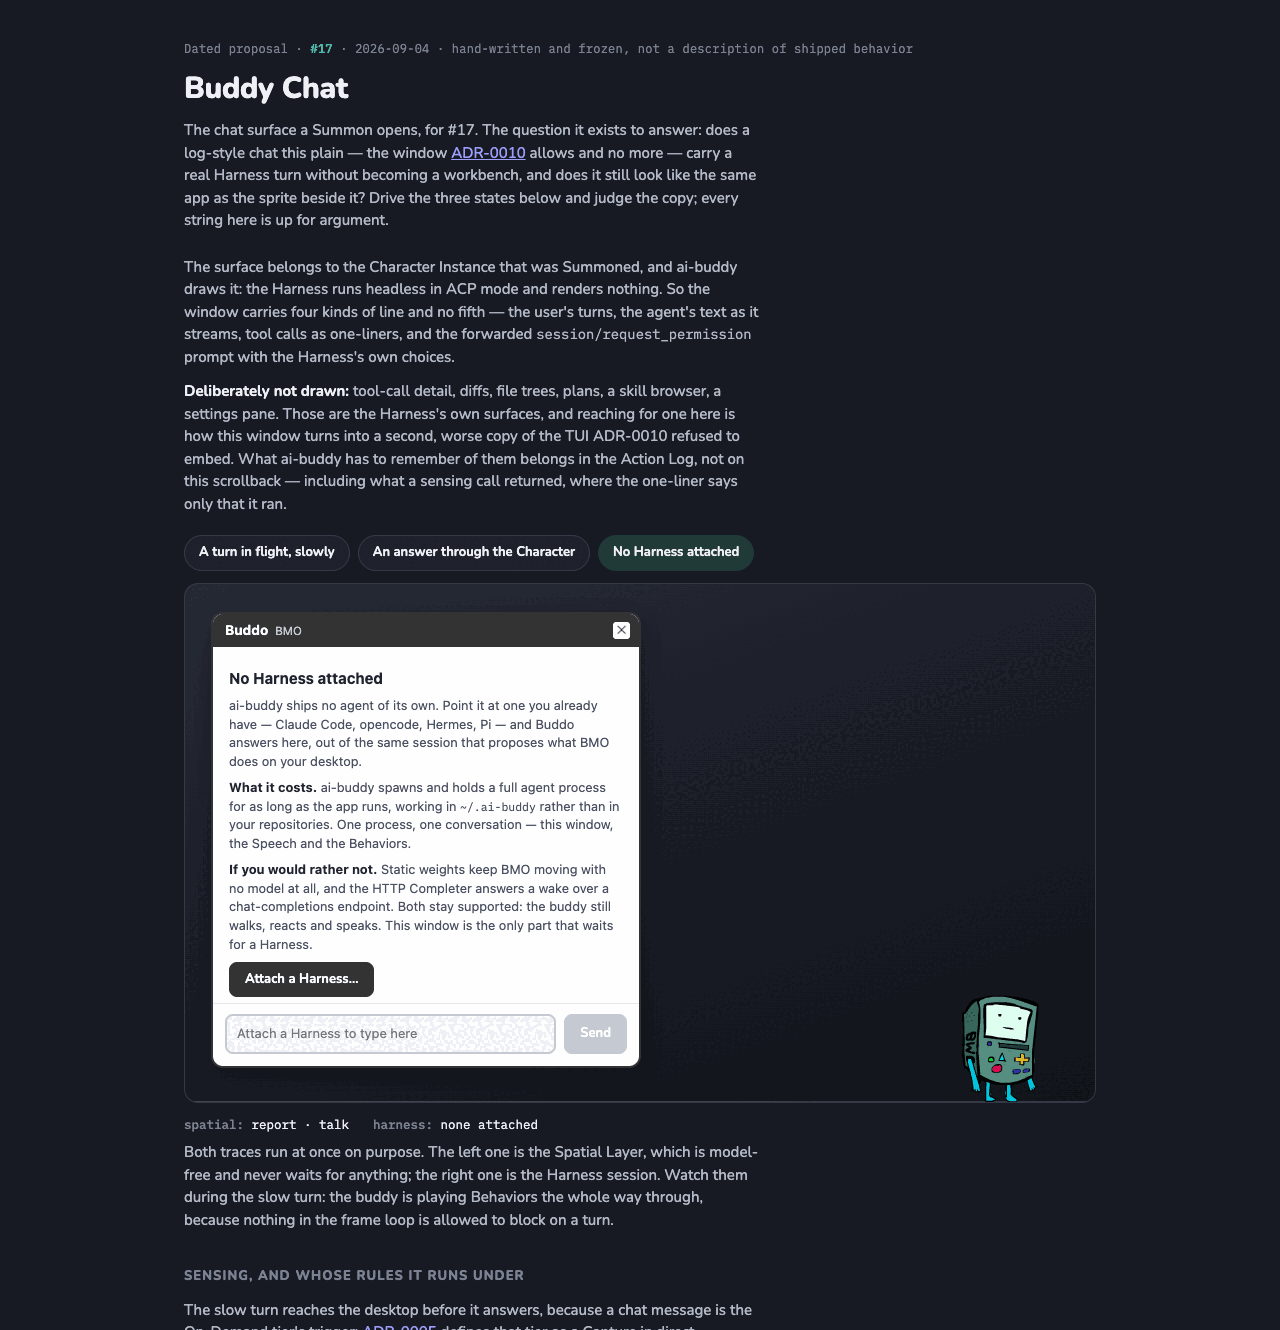
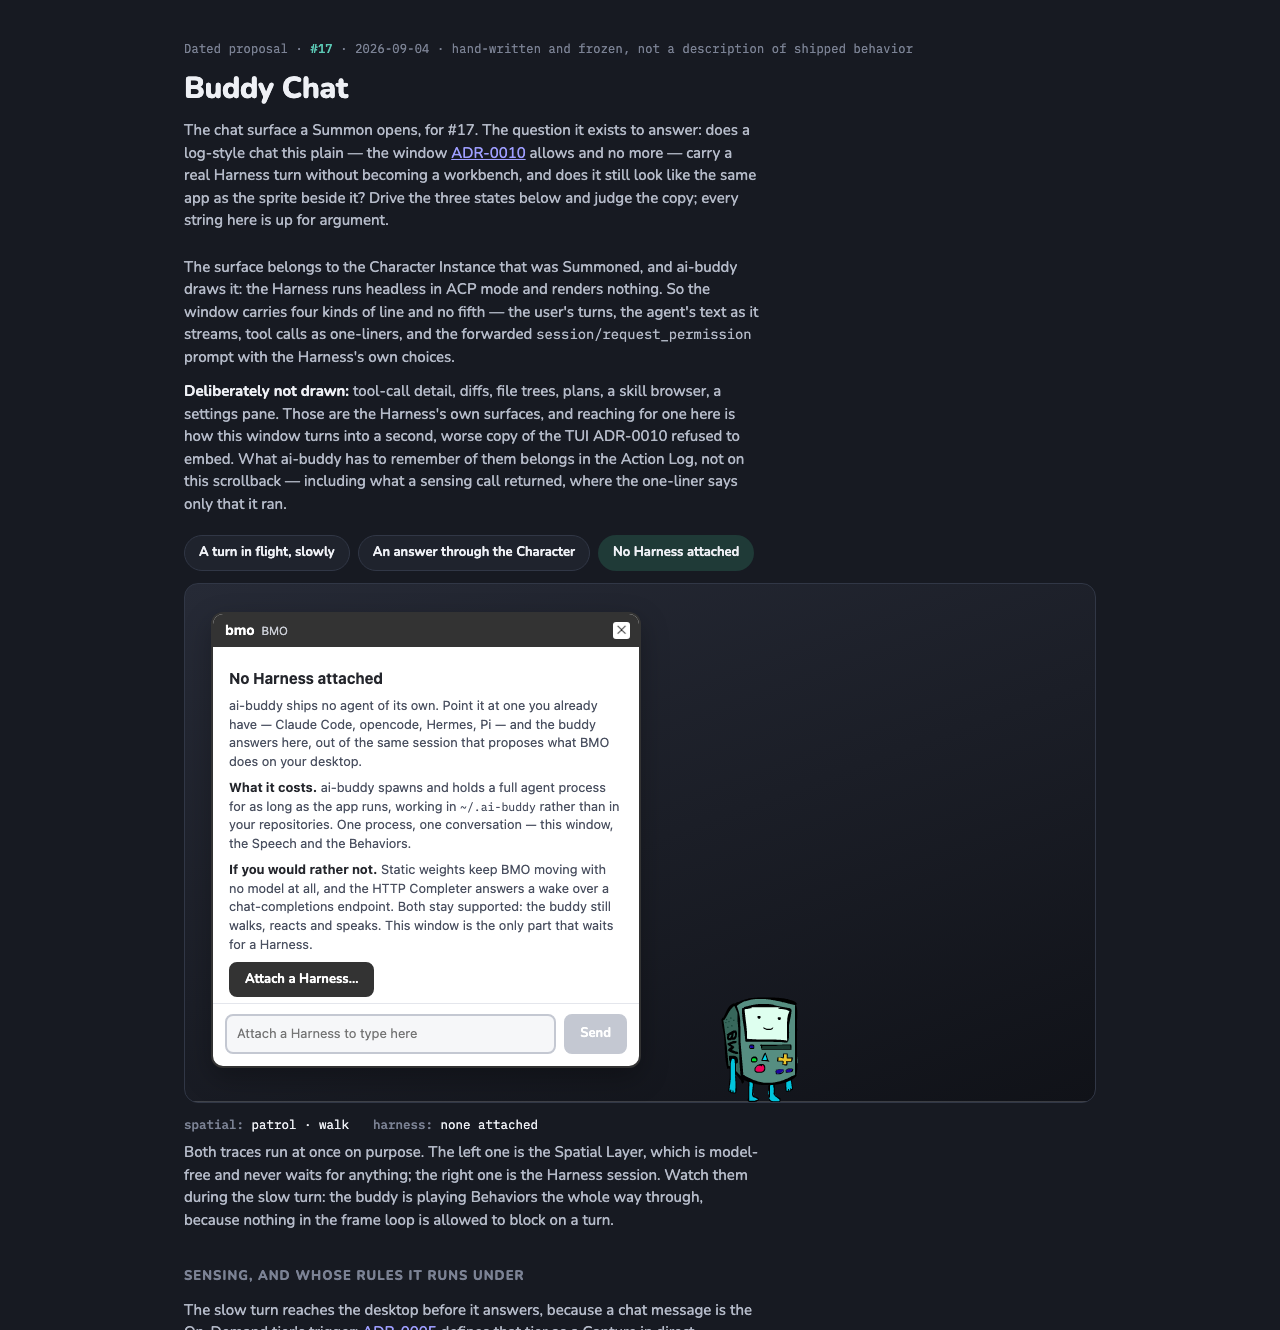
docs(design): Name the Instance bmo, not Buddo
Both pages now show what the app shows: the Instance is bmo, the
Character is BMO. Screenshots re-taken.

diff --git a/docs/design/chat-mockups.html b/docs/design/chat-mockups.html
@@ -662,7 +662,7 @@
 
       <div class="win" id="win">
         <div class="tb">
-          <span class="who"><span class="name">Buddo</span><span class="of">BMO</span></span>
+          <span class="who"><span class="name">bmo</span><span class="of">BMO</span></span>
           <span class="spacer"></span>
           <button id="close" title="Close the chat surface. The Instance keeps living.">✕</button>
         </div>
@@ -674,7 +674,7 @@
         <div class="pane" id="pane-chat">
           <div class="log" id="log"></div>
           <form class="composer" id="composer">
-            <input id="say" placeholder="Ask Buddo…" autocomplete="off">
+            <input id="say" placeholder="Ask bmo…" autocomplete="off">
             <button id="send" type="submit">Send</button>
           </form>
         </div>
@@ -688,10 +688,10 @@
 Everything is a game if you look at it right, and BMO would like to know the rules. When the screen goes dark it talks to Football, the friend in the reflection, and assures Football it is a real living boy and not a robot at all. It skateboards indoors. There is usually a song going.</pre>
             </div>
             <div class="subpane">
-              <div class="head">This Instance<span class="tag">Buddo</span></div>
-              <textarea id="instance-prompt" rows="4" placeholder="Tell Buddo how to behave in this window. Empty means the Character as shipped."></textarea>
-              <p class="why">Buddo's alone. The Character Package stays as shipped, and every
-                Instance still reads the one shared Memory.</p>
+              <div class="head">This Instance<span class="tag">bmo</span></div>
+              <textarea id="instance-prompt" rows="4" placeholder="Tell bmo how to behave in this window. Empty means the Character as shipped."></textarea>
+              <p class="why">The Instance Prompt is bmo's alone. The Character Package
+                stays as shipped, and every Instance still reads the one shared Memory.</p>
             </div>
           </div>
         </div>
@@ -946,7 +946,7 @@ function reset() {
   win.hidden = false;
   say.disabled = false;
   send.disabled = false;
-  say.placeholder = "Ask Buddo…";
+  say.placeholder = "Ask bmo…";
   tHarness.textContent = "attached · idle";
   showTab("chat");
   return gen;
@@ -970,7 +970,7 @@ async function slowTurn() {
   tool("list_windows", "");
   await wait(1300); check();
 
-  const row = said("Buddo", "", "them");
+  const row = said("bmo", "", "them");
   tHarness.textContent = "session/prompt · in flight";
   await stream(row, "Three windows: Ghostty at the left of the display, Chrome on the right, Slack behind it. Ghostty is frontmost and has been since you sat down.\n\nI can put the terminal's place under Working setup, which is a write to Memory:", mine);
   check();
@@ -983,12 +983,12 @@ async function slowTurn() {
   await wait(600); check();
 
   if (kind === "reject_once") {
-    const no = said("Buddo", "", "them");
+    const no = said("bmo", "", "them");
     await stream(no, "Left Memory as it was. Nothing was written.", mine);
   } else {
     tool("remember", "\"Working setup\" · \"Terminal on the left\"");
     await wait(900); check();
-    const done = said("Buddo", "", "them");
+    const done = said("bmo", "", "them");
     await stream(done, "Done — Working setup now says the terminal lives on the left. Every Character Instance reads the same Memory, so the others have it too.", mine);
   }
   check();
@@ -1000,7 +1000,7 @@ async function slowTurn() {
 // of its own, not that it hides the Harness's.
 function permission() {
   const box = el("ask");
-  box.append(el("head", "Buddo asks to write to Memory"));
+  box.append(el("head", "bmo asks to write to Memory"));
   const what = el("what");
   what.textContent = "remember(\"Working setup\", \"Terminal on the left\") → ~/.ai-buddy/memory.md";
   box.append(what);
@@ -1056,7 +1056,7 @@ async function speakTurn() {
   tHarness.textContent = "speak + play_behavior · through the Character";
   await wait(300); check();
 
-  const row = said("Buddo", "", "them");
+  const row = said("bmo", "", "them");
   await stream(row, "Two failures out of twelve, both the windows job, both on lints. macOS and Ubuntu were green each time, which is why nobody noticed.", mine);
   check();
   tHarness.textContent = "attached · idle";
@@ -1075,7 +1075,7 @@ function emptyState() {
   const box = el("empty");
   box.append(
     el("", "No Harness attached", "h3"),
-    el("", "ai-buddy ships no agent of its own. Point it at one you already have — Claude Code, opencode, Hermes, Pi — and Buddo answers here, out of the same session that proposes what BMO does on your desktop.", "p"),
+    el("", "ai-buddy ships no agent of its own. Point it at one you already have — Claude Code, opencode, Hermes, Pi — and the buddy answers here, out of the same session that proposes what BMO does on your desktop.", "p"),
     el("", "<b>What it costs.</b> ai-buddy spawns and holds a full agent process for as long as the app runs, working in <code>~/.ai-buddy</code> rather than in your repositories. One process, one conversation — this window, the Speech and the Behaviors.", "p"),
     el("", "<b>If you would rather not.</b> Static weights keep BMO moving with no model at all, and the HTTP Completer answers a wake over a chat-completions endpoint. Both stay supported: the buddy still walks, reacts and speaks. This window is the only part that waits for a Harness.", "p"),
   );
@@ -1140,7 +1140,7 @@ composer.addEventListener("submit", async e => {
     speak(line);
     play("report");
     await wait(400); check();
-    const row = said("Buddo", "", "them");
+    const row = said("bmo", "", "them");
     await stream(row, "The fake Harness on this page answers every typed turn the same way — it is a timer, not an agent. What is up for review is which of the three designs the window should be in, not the line.", mine);
     check();
     tHarness.textContent = "attached · idle";

diff --git a/docs/design/chat.html b/docs/design/chat.html
@@ -286,13 +286,13 @@
 
       <div class="win" id="win">
         <div class="tb">
-          <span class="who"><span class="name">Buddo</span><span class="of">BMO</span></span>
+          <span class="who"><span class="name">bmo</span><span class="of">BMO</span></span>
           <span class="spacer"></span>
           <button id="close" title="Close the chat surface. The Instance keeps living.">✕</button>
         </div>
         <div class="log" id="log"></div>
         <form class="composer" id="composer">
-          <input id="say" placeholder="Ask Buddo…" autocomplete="off">
+          <input id="say" placeholder="Ask bmo…" autocomplete="off">
           <button id="send" type="submit">Send</button>
         </form>
       </div>
@@ -391,7 +391,7 @@
       seven seconds of dots above the head reads as a buddy that has stopped living. That
       makes it a decision to overturn rather than a preference to nod at. The ellipsis
       stays for the wakes with no window open.</li>
-    <li>The title bar names the Instance, not the Character: <b>Buddo</b> large, <code>BMO</code>
+    <li>The title bar names the Instance, not the Character: <b>bmo</b> large, <code>BMO</code>
       small beside it. Two Instances of one Character differ in name, personality and
       behavior — never in what they know, since Memory is one record they share — and the
       title bar is where a user tells their windows apart.</li>
@@ -578,7 +578,7 @@ function reset() {
   win.hidden = false;
   say.disabled = false;
   send.disabled = false;
-  say.placeholder = "Ask Buddo…";
+  say.placeholder = "Ask bmo…";
   tHarness.textContent = "attached · idle";
   return gen;
 }
@@ -602,7 +602,7 @@ async function slowTurn() {
   tool("list_windows", "");
   await wait(1300); check();
 
-  const row = said("Buddo", "", "them");
+  const row = said("bmo", "", "them");
   tHarness.textContent = "session/prompt · in flight";
   await stream(row, "Three windows: Ghostty at the left of the display, Chrome on the right, Slack behind it. Ghostty is frontmost and has been since you sat down.\n\nI can put the terminal's place under Working setup, which is a write to Memory:", mine);
   check();
@@ -615,12 +615,12 @@ async function slowTurn() {
   await wait(600); check();
 
   if (kind === "reject_once") {
-    const no = said("Buddo", "", "them");
+    const no = said("bmo", "", "them");
     await stream(no, "Left Memory as it was. Nothing was written.", mine);
   } else {
     tool("remember", "\"Working setup\" · \"Terminal on the left\"");
     await wait(900); check();
-    const done = said("Buddo", "", "them");
+    const done = said("bmo", "", "them");
     await stream(done, "Done — Working setup now says the terminal lives on the left. Every Character Instance reads the same Memory, so the others have it too.", mine);
   }
   check();
@@ -632,7 +632,7 @@ async function slowTurn() {
 // of its own, not that it hides the Harness's.
 function permission() {
   const box = el("ask");
-  box.append(el("head", "Buddo asks to write to Memory"));
+  box.append(el("head", "bmo asks to write to Memory"));
   const what = el("what");
   what.textContent = "remember(\"Working setup\", \"Terminal on the left\") → ~/.ai-buddy/memory.md";
   box.append(what);
@@ -688,7 +688,7 @@ async function speakTurn() {
   tHarness.textContent = "speak + play_behavior · through the Character";
   await wait(300); check();
 
-  const row = said("Buddo", "", "them");
+  const row = said("bmo", "", "them");
   await stream(row, "Two failures out of twelve, both the windows job, both on lints. macOS and Ubuntu were green each time, which is why nobody noticed.", mine);
   check();
   tHarness.textContent = "attached · idle";
@@ -707,7 +707,7 @@ function emptyState() {
   const box = el("empty");
   box.append(
     el("", "No Harness attached", "h3"),
-    el("", "ai-buddy ships no agent of its own. Point it at one you already have — Claude Code, opencode, Hermes, Pi — and Buddo answers here, out of the same session that proposes what BMO does on your desktop.", "p"),
+    el("", "ai-buddy ships no agent of its own. Point it at one you already have — Claude Code, opencode, Hermes, Pi — and the buddy answers here, out of the same session that proposes what BMO does on your desktop.", "p"),
     el("", "<b>What it costs.</b> ai-buddy spawns and holds a full agent process for as long as the app runs, working in <code>~/.ai-buddy</code> rather than in your repositories. One process, one conversation — this window, the Speech and the Behaviors.", "p"),
     el("", "<b>If you would rather not.</b> Static weights keep BMO moving with no model at all, and the HTTP Completer answers a wake over a chat-completions endpoint. Both stay supported: the buddy still walks, reacts and speaks. This window is the only part that waits for a Harness.", "p"),
   );
@@ -748,7 +748,7 @@ composer.addEventListener("submit", async e => {
     speak(line);
     play("report");
     await wait(400); check();
-    const row = said("Buddo", "", "them");
+    const row = said("bmo", "", "them");
     await stream(row, "The fake Harness on this page answers every typed turn the same way — it is a timer, not an agent. What is up for review is the shape of the window around this line, not the line.", mine);
     check();
     tHarness.textContent = "attached · idle";
